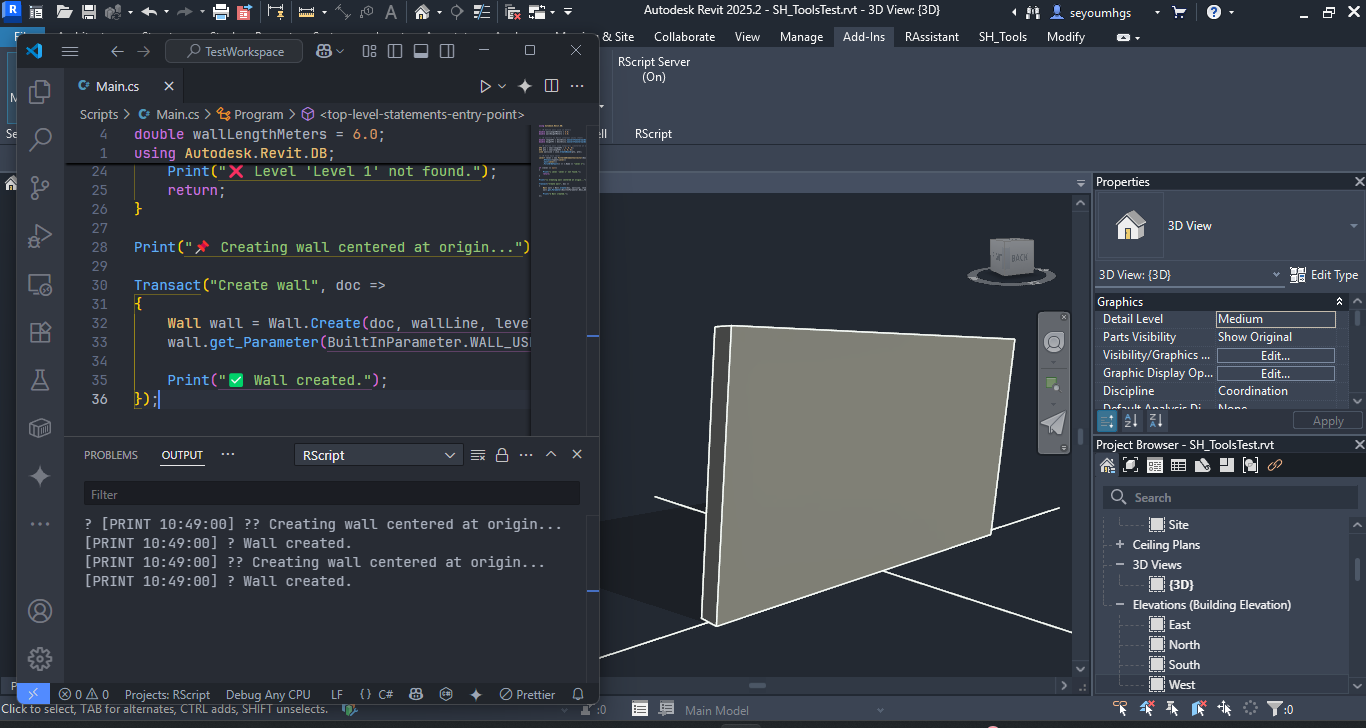
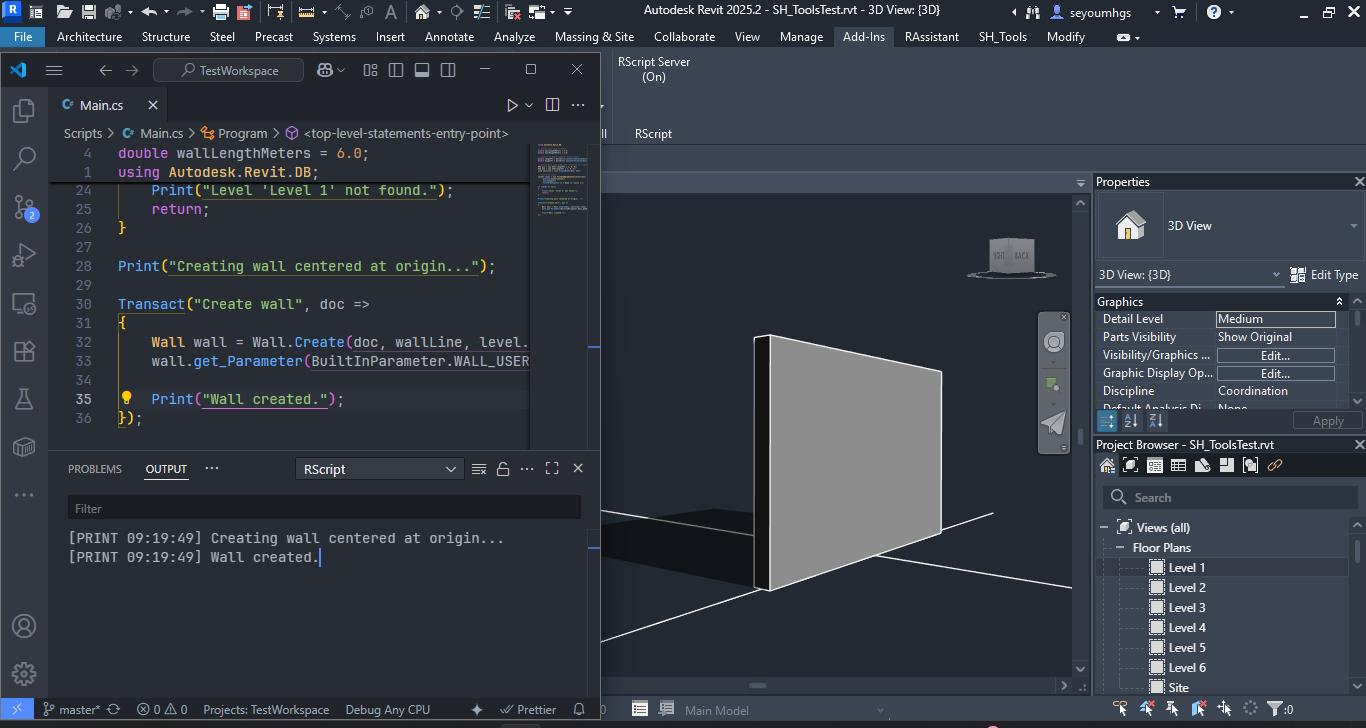
correct screenshot, hello-revit.md and vscode output no emoji

diff --git a/docs/hello-revit.md b/docs/hello-revit.md
@@ -33,20 +33,20 @@ Replace the content with:
 ```csharp
 using Autodesk.Revit.DB;
 
-// 🌍 Define wall size in meters
+// Define wall size in meters
 double wallLengthMeters = 6.0;
 double wallHeightMeters = 3.0;
 
-// 🧮 Convert to Revit internal units (feet)
+// Convert to Revit internal units (feet)
 double lengthFt = UnitUtils.ConvertToInternalUnits(wallLengthMeters, UnitTypeId.Meters);
 double heightFt = UnitUtils.ConvertToInternalUnits(wallHeightMeters, UnitTypeId.Meters);
 
-// 📍 Define wall line endpoints (centered at origin)
+// Define wall line endpoints (centered at origin)
 XYZ pt1 = new XYZ(-lengthFt / 2, 0, 0);
 XYZ pt2 = new XYZ(lengthFt / 2, 0, 0);
 Line wallLine = Line.CreateBound(pt1, pt2);
 
-// 🧭 Find base level
+// Find base level
 Level? level = new FilteredElementCollector(Doc)
     .OfClass(typeof(Level))
     .Cast<Level>()
@@ -54,18 +54,18 @@ Level? level = new FilteredElementCollector(Doc)
 
 if (level == null)
 {
-    Print("❌ Level 'Level 1' not found.");
+    Print("Level 'Level 1' not found.");
     return;
 }
 
-Print("📌 Creating wall centered at origin...");
+Print("Creating wall centered at origin...");
 
 Transact("Create wall", doc =>
 {
     Wall wall = Wall.Create(doc, wallLine, level.Id, false);
     wall.get_Parameter(BuiltInParameter.WALL_USER_HEIGHT_PARAM)?.Set(heightFt);
 
-    Print("✅ Wall created.");
+    Print("Wall created.");
 });
 ```
 

diff --git a/README.md b/README.md
@@ -103,8 +103,8 @@ Ctrl + Alt + R
 
 - **VS Code Output Tab** → Channel: `RScript`  
   ```
-  [PRINT 14:30:05] 📌 Creating wall centered at origin...
-  [PRINT 14:30:05] ✅ Wall created.
+  [PRINT 14:30:05] Creating wall centered at origin...
+  [PRINT 14:30:05] Wall created.
   ```
 
 ![Revit view with wall centered at origin](assets/wall-origin-grid.png)  
